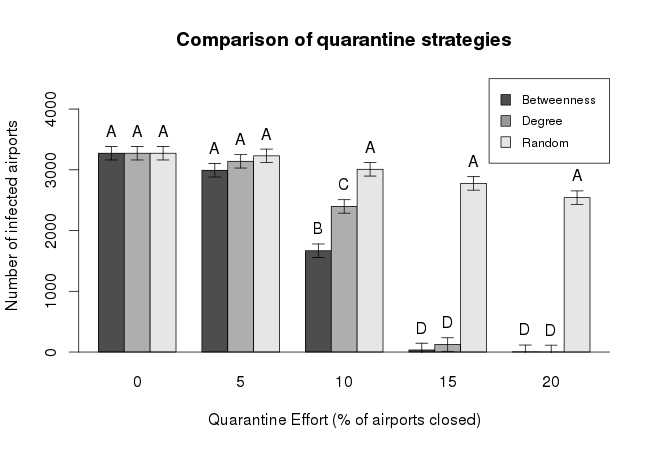
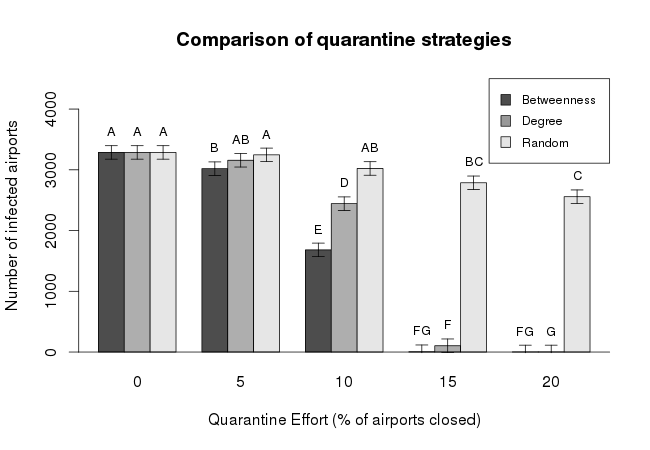
Added ANOVA scripts and results.

diff --git a/README.html b/README.html
@@ -8,6 +8,20 @@
         display:none;
     }
 
+    code {
+
+        font-family: "Lucida Console", Monaco, monospace;
+        font-size: 10pt;
+        padding:10px;
+        display: block;
+
+    }
+    code table {
+        text-align:right;
+        font-size: 10pt;
+        padding:10px;
+    }
+
 </style>
 
 <h1>Airport Flu Modeling</h1>
@@ -77,17 +91,130 @@ destination.</li>
 
 <h2>Results</h2>
 
-First, we examined the median SIR response for 100 initial infection sites, each
+First, we examined the median SIR response for 343 initial infection sites, each
 chosen randomly.
 
-<p><img src="documentation/images/Median-SIR.png" title="Figure 3." /></p>
+<p><img src="documentation/images/Directed_Median_SIR.png" title="Figure 3." /></p>
 
 From this, we found that an infection through our network required around three
 ticks to have a noticable amount of infections. We also found that the infection
-peaks around the nine tick mark, and fully disapates in 15 ticks.
+peaks around the nine tick mark, and fully disapates in 15 ticks. We then 
+decided to test if there was a difference in out network if it behaved as a 
+directed network or a undirected network. Using the method described above, we
+constructed a median SIR plot for the undireced network.
 
-We then tested three quarantine strategies: quarantining  randomly,
-in decending degree, and in order of decending betweenness centrality.
+<p><img src="documentation/images/Undirected_Median_SIR.png" title="Figure 4." /></p>
+
+As you can see, the two plots are nearly identical, suggesting that due to the
+reciprical routes of the network, the directed network behaves similarly to 
+undirected form of the network. We decided to test this idea further by running
+a series of quaratine efforts based on betweenness centrality for both the
+directed and undirected networks, and performed an ANOVA test on the data
+collected.
+
+<code>
+<table>
+    <tr>
+        <th style="text-align:left;">Treatment</th>
+        <th>Df</th>
+        <th>Sum Sq</th>  
+        <th>Mean Sq</th>
+        <th>F value</th>
+        <th>Pr(F)</th>
+    </tr>
+    <tr>
+        <td style="text-align:left;" >Network Type</td>
+        <td>1</td>
+        <td>88498</td>
+        <td>88498</td>
+        <td>0.274</td>
+        <td>0.601</td>
+    </tr>
+    <tr>
+        <td  style="text-align:left;">Effort</td>
+        <td>4</td>
+        <td>813674670</td>
+        <td>203418668</td> 
+        <td>628.963</td>
+        <td>2e-16 ***</td>
+    </tr>
+    <tr>
+        <td style="text-align:left;" >Network Type : Effort</td>
+        <td>4</td>    
+        <td>264482</td>     
+        <td>66121</td>   
+        <td>0.204</td>
+        <td>0.936</td>
+    </tr>
+    <tr>
+        <td  style="text-align:left;">Residuals</td>              
+        <td>490</td> 
+        <td>158475453</td>    
+        <td>323419</td>
+    <tr>
+</table>
+Signif. codes:  0 ‘***’ 0.001 ‘**’ 0.01 ‘*’ 0.05 ‘.’ 0.1 ‘ ’ 1
+
+</code>
+
+This ANOVA was then used in a Tukey HSD and we found that there is no 
+statistical difference between a directed and undirected network.
+
+<p><img src="documentation/images/ANOVA-network-types.png" title="Figure 4." /></p>
+
+Using the directed network, we then tested three quarantine strategies:
+quarantining  randomly, in decending degree, and in order of decending 
+betweenness centrality. We used the collected data in an ANOVA test, and found
+significance in effort, quarantine type, and the interactions of both effort and
+quarantine type. We found the greatest gains with a 5% quarantine effort of the
+airports with the highest betweenness centrality
+
+<code>
+<table>
+    <tr>
+        <th style="text-align:left;">Treatment</th>
+        <th>Df</th>
+        <th>Sum Sq</th>  
+        <th>Mean Sq</th>
+        <th>F value</th>
+        <th>Pr(F)</th>
+    </tr>
+    <tr>
+        <td style="text-align:left;" >Effort</td>
+        <td>4</td>
+        <td>675706897</td>
+        <td>168926724</td>
+        <td>556.17</td>
+        <td>2e-16 ***</td>
+    </tr>
+    <tr>
+        <td  style="text-align:left;">Quarantine Type</td>
+        <td>2</td>
+        <td>276498032</td>
+        <td>138249016</td> 
+        <td>455.17</td>
+        <td>2e-16 ***</td>
+    </tr>
+    <tr>
+        <td style="text-align:left;" >Network Type : Effort</td>
+        <td>8</td>    
+        <td>181062773</td>     
+        <td>22632847</td>   
+        <td>74.52</td>
+        <td>2e-16 ***</td>
+    </tr>
+    <tr>
+        <td  style="text-align:left;">Residuals</td>              
+        <td>735</td> 
+        <td>223244112</td>    
+        <td>303733</td>
+    <tr>
+</table>
+Signif. codes:  0 ‘***’ 0.001 ‘**’ 0.01 ‘*’ 0.05 ‘.’ 0.1 ‘ ’ 1
+</code>
+
+We used the ANOVA data and performed a Tukey HSD (Honest Significant Dfference)
+test, the results of which can be found below.
 
 <p><img src="documentation/images/ANOVA-comparison-directed.png" title="Figure 4." /></p>
 
